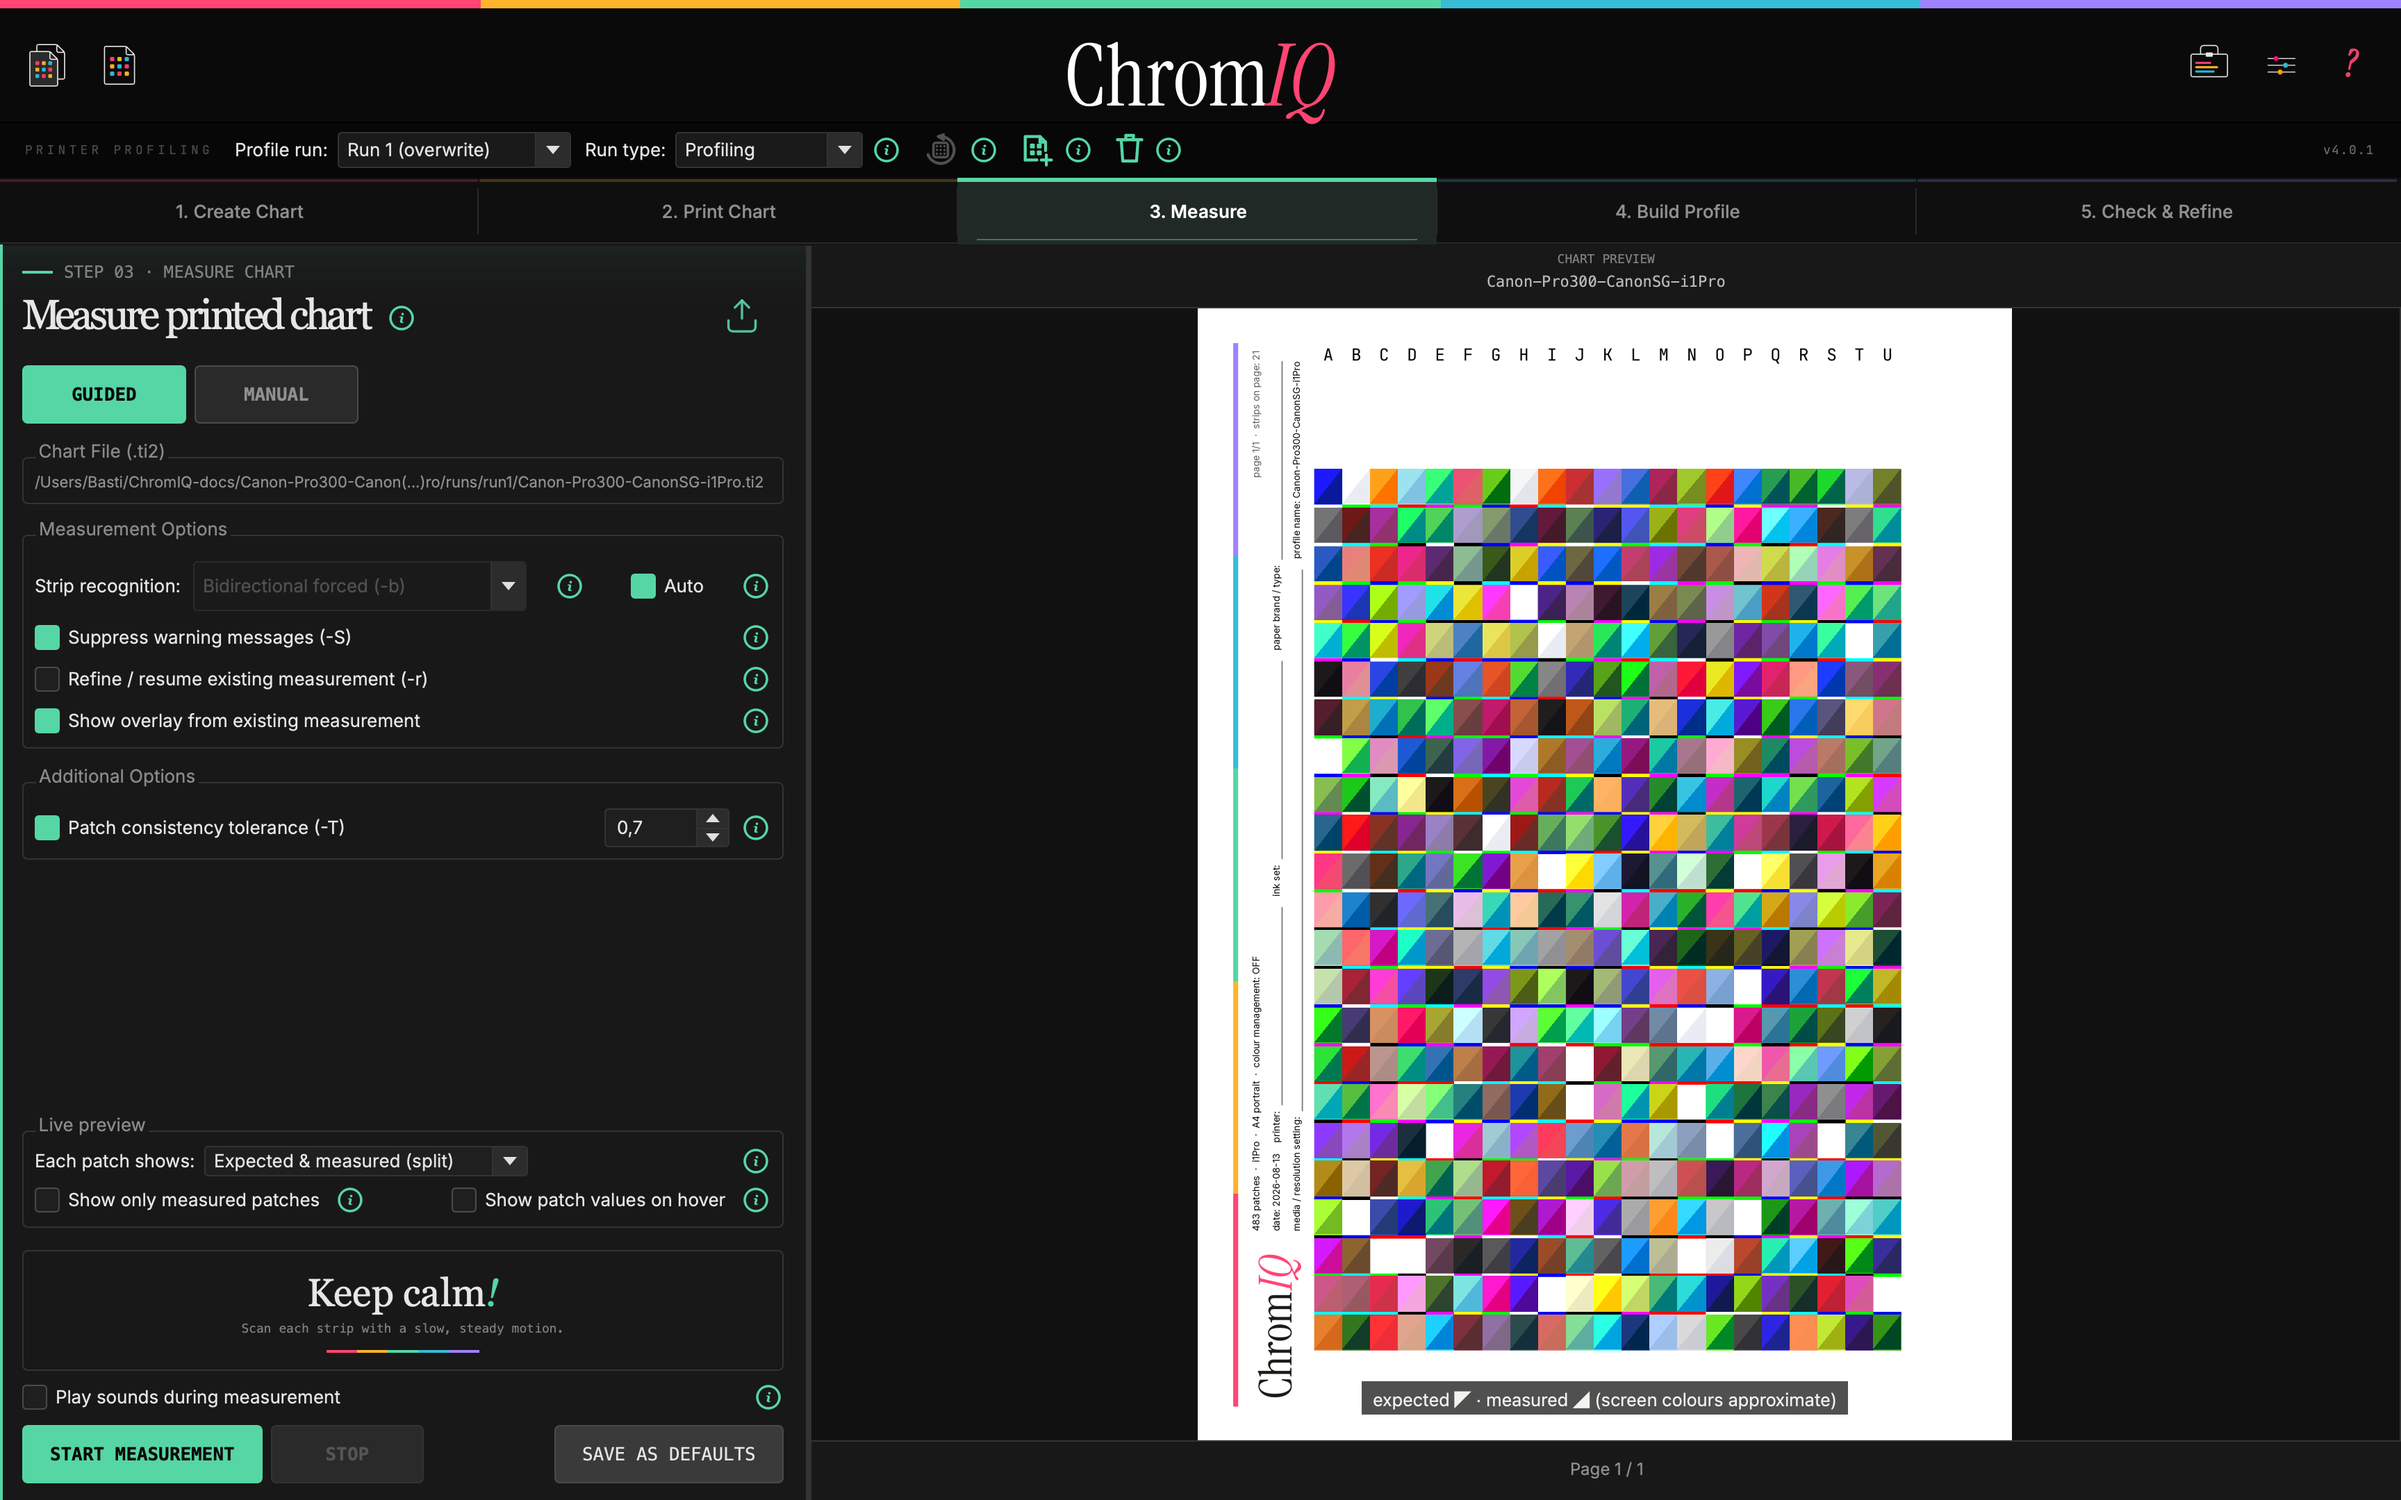
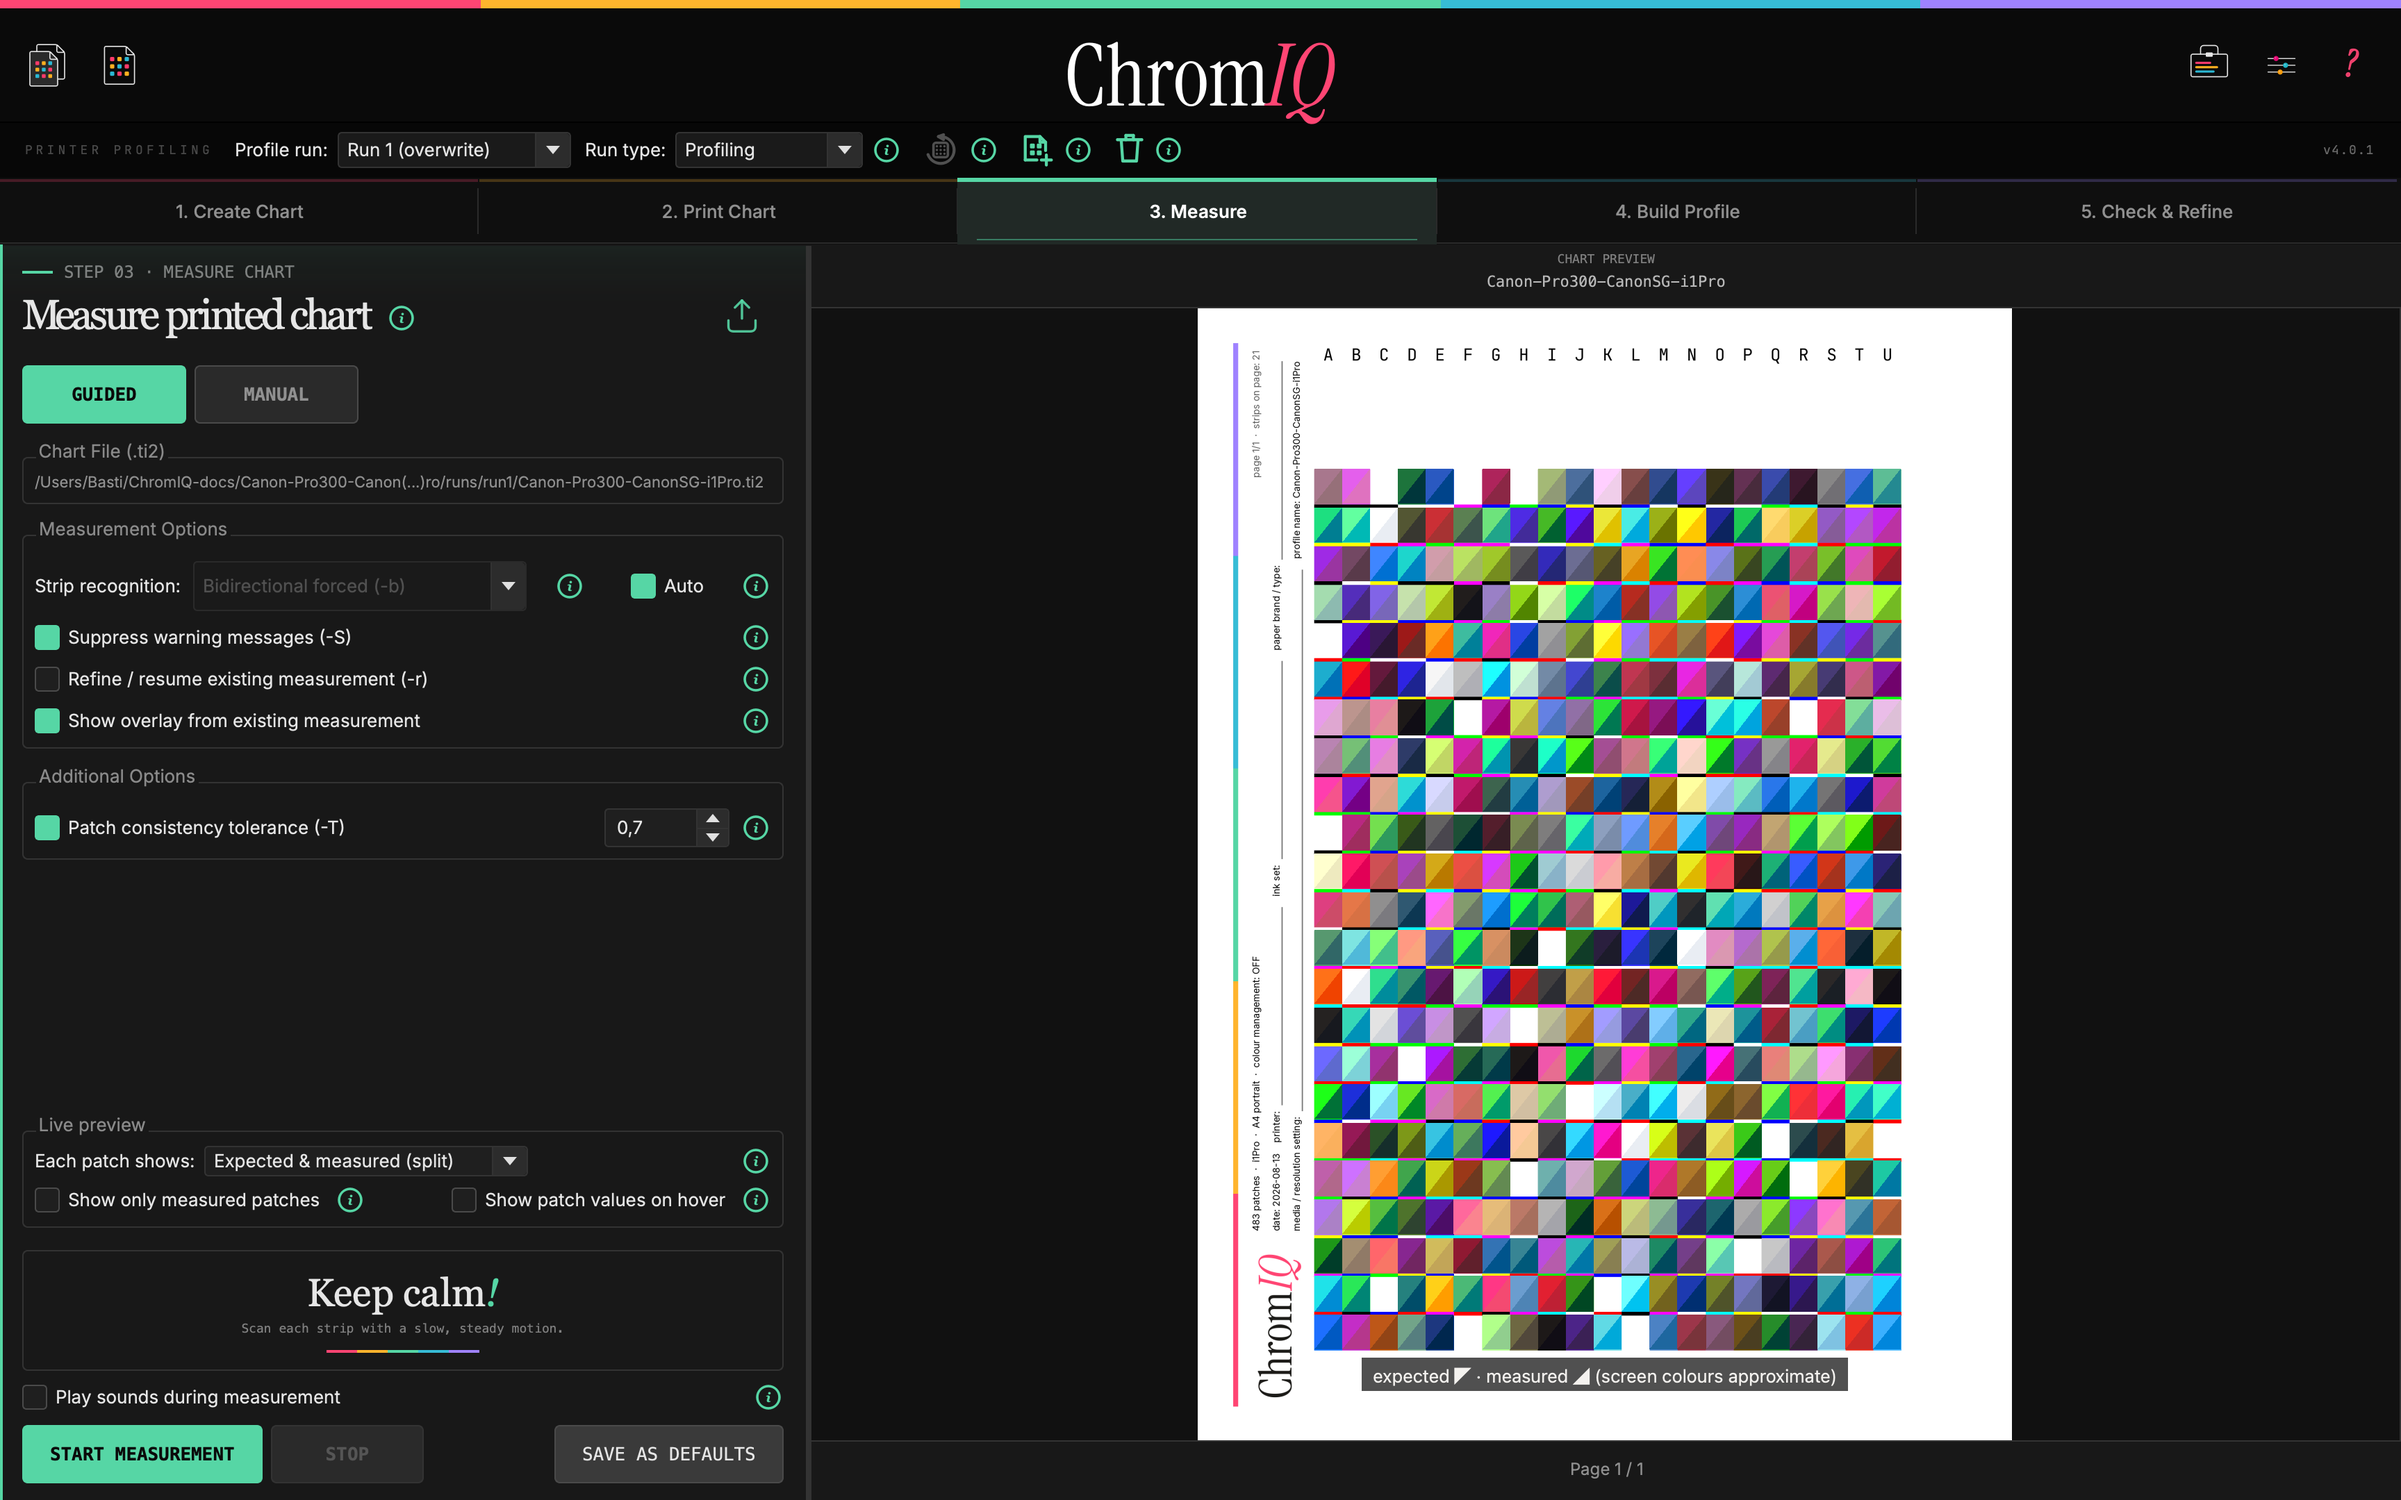
Strip rects never reach past the page, and the demo chart is a real one
Sebastian kept saying the overlay legend sat differently in his app than in
my screenshots, and he was right three times over while I explained it
wrongly. The app's own numbers settled it: for the demo chart it computed
patch_bottom=803.3 against img_b=801.5 — strip rectangles ending 8 px BELOW
the page they belong to. With no sane anchor the legend fell back to the
paper-edge rule, which is the gap he could see.

The cause is the capture script. It rebuilds the demo chart by calling the
layout engine directly, which writes <stem>.strips.json but never merges it
into channels.json — chart_creator's job, bypassed here — and the source
project predates the engine, so its sidecar has no layout at all. The app
then DETECTS strips from the page image, and that detector overshot. His own
charts carry exact geometry (strips end at 3124, patches at 3124), which is
why he never saw it. The script now merges the geometry, so the staged chart
behaves like one a user generated.

The app half is a real robustness hole worth closing anyway: any chart made
before the layout engine, or in another program, is measured with detected
strips, and everything anchored to them inherits an overshoot — the scan
arrow, the measured-patch blanking, the legend. set_stripe_rects now clamps
to the page. And the clamp is applied again from the render, because the
page image is built by a deferred timer: rects arrive BEFORE there is a
[…]

Changed region(s): [[0.5312, 0.3102, 0.8125, 0.9616]]

diff --git a/scripts/capture_screens.py b/scripts/capture_screens.py
@@ -186,6 +186,43 @@ def pump(ms: int) -> None:
 # ---------------------------------------------------------------------------
 # Seeding
 # ---------------------------------------------------------------------------
+def _merge_engine_geometry(stem) -> bool:
+    """Make the rebuilt chart a REAL ChromIQ-engine chart on disk.
+
+    Building through ``le_chart.build_chart`` writes ``<stem>.strips.json``,
+    but the app reads its strip geometry from ``<stem>.channels.json`` — the
+    merge normally done by ``chart_creator``, which this script bypasses. The
+    source project predates the engine, so its sidecar carries no layout at
+    all, and the app fell back to DETECTING strips from the page image. That
+    detector handed back rects reaching past the page (3516 px on a 3508 px
+    page), and anything anchored to them, the overlay legend included, went
+    with it — the gap Sebastian spotted in the screenshot, 2026-08-13.
+
+    Mirrors what chart_creator writes, so the staged chart behaves on screen
+    exactly like one a user generated.
+    """
+    import json
+    strips = Path(str(stem) + ".strips.json")
+    sidecar = Path(str(stem) + ".channels.json")
+    if not strips.is_file():
+        log("  no engine geometry to merge (chart not engine-built?)")
+        return False
+    try:
+        doc = json.loads(sidecar.read_text()) if sidecar.is_file() else {}
+        layout = json.loads(strips.read_text())
+        layout["engine"] = "chromiq"
+        layout["engine_version"] = 1
+        doc["layout"] = layout
+        sidecar.write_text(json.dumps(doc))
+    except Exception as e:      # noqa: BLE001
+        log(f"  could not merge engine geometry: {e}")
+        return False
+    log(f"engine geometry merged into the sidecar "
+        f"({len(layout.get('strips') or [])} strips, "
+        f"{len(layout.get('patches') or [])} patches)")
+    return True
+
+
 def _make_a_matching_measurement(stem) -> bool:
     """Give the rebuilt run chart a measurement that actually fits it.
 
@@ -308,6 +345,7 @@ def stage_the_project(settings) -> bool:
             use_instrument_margins=True, clip_content_mode="notes",
             clip_text="Canon PRO-300  ·  Canon SG  ·  i1Pro")
         log("run chart rebuilt with the layout engine + notes clip border")
+        _merge_engine_geometry(stem)
         _make_a_matching_measurement(stem)
         return True
     except Exception as e:                        # noqa: BLE001
@@ -566,6 +604,32 @@ def scene_list():
             win._tab_chart._manual_paper_pw.set_value("A4")
         except Exception as e:
             log(f"manual instr/paper: {e}")
+        # NO MODALS DURING A CAPTURE. Touching a layout control asks for a
+        # redraw, and this run holds a measurement the redraw would replace, so
+        # the tab says so in a window ("The live preview is not being
+        # re-drawn") — which stops the run until someone clicks OK (Sebastian
+        # hit it, 2026-08-13). The tab already says that note only once per
+        # switch-on and logs it thereafter; pre-setting its flag takes the
+        # quiet path instead of patching exec.
+        win._tab_chart._said_auto_update_paused = True
+        # …AND THE ENGINE PANEL, WHICH IS WHAT ACTUALLY LAYS THE SHEET OUT.
+        # With the ChromIQ layout engine on (the default since 4.0.0) the
+        # printtarg -i/-p widgets above are not the source: the panel is. Set
+        # only those two and the auto-update redraw uses whatever instrument
+        # the panel happened to hold, which put a ColorMunki sheet in the
+        # i1Pro screenshot (Sebastian spotted it, 2026-08-13). Setting both
+        # keeps the shot the same on any machine, whatever a project or a
+        # preference carries.
+        try:
+            p = win._tab_chart._manual_layout_panel
+            ii = p.instr.findData("i1")
+            if ii >= 0:
+                p.instr.setCurrentIndex(ii)          # rebuilds the paper list
+            pi = p.paper.findData("A4")
+            if pi >= 0:
+                p.paper.setCurrentIndex(pi)
+        except Exception as e:
+            log(f"engine panel instr/paper: {e}")
         _keep_the_runs_own_chart(win)
         show_tab(win, "chart")
         # SETTING INSTRUMENT/PAPER RE-LAYS THE CHART OUT, AND THE SHOT MUST

diff --git a/tests/test_measure_overlay_legend.py b/tests/test_measure_overlay_legend.py
@@ -12,7 +12,17 @@ from __future__ import annotations
 import inspect
 import re
 
+import pytest
+
 from ui.tiff_preview import TiffPreview
+
+
+@pytest.fixture(scope="module")
+def qapp_for_preview():
+    import os
+    os.environ.setdefault("QT_QPA_PLATFORM", "offscreen")
+    from PyQt6.QtWidgets import QApplication
+    return QApplication.instance() or QApplication([])
 
 
 def _legend_block() -> str:
@@ -38,3 +48,59 @@ def test_the_bottom_clamp_comes_last():
     prefer = block.index("patch_bottom + 2")
     clamp = block.index("img_b - th - 4", block.index("patch_bottom + 2"))
     assert clamp > prefer, "the paper clamp must be the last word on cy"
+
+
+# ---- 2026-08-13: strip rects must never reach past the page --------------
+def test_detected_strip_rects_are_clamped_to_the_page(qapp_for_preview):
+    """A chart with no engine geometry has its strips DETECTED from the page
+    image, and that detector returned a rect ending at 3516 px on a 3508 px
+    page. Everything anchored to a strip inherits it: the scan arrow, the
+    measured-patch blanking, and the overlay legend, which is where Sebastian
+    saw it. The clamp lives in the one setter every source goes through."""
+    from PyQt6.QtCore import QRect
+    from PyQt6.QtGui import QPixmap
+
+    pv = TiffPreview()
+    pv._pixmap = QPixmap(2480, 3508)
+    pv.set_stripe_rects([QRect(300, 450, 90, 3066),      # bottom 3516: past it
+                         QRect(400, 450, 90, 2800)])     # bottom 3250: fine
+    tops = [r.y() + r.height() for r in pv._stripe_rects]
+    assert max(tops) <= 3508, f"a strip still reaches past the page: {tops}"
+    assert tops[1] == 3250, "a rect that already fits must not be moved"
+
+
+def test_clamping_survives_a_missing_page(qapp_for_preview):
+    """No page loaded yet is normal during setup — the setter must not raise
+    or discard the rects, or a chart would arrive with no strips at all."""
+    from PyQt6.QtCore import QRect
+    pv = TiffPreview()
+    pv._pixmap = None
+    pv.set_stripe_rects([QRect(0, 0, 10, 10)])
+    assert len(pv._stripe_rects) == 1
+
+
+def test_rects_that_arrive_before_the_page_are_clamped_too(qapp_for_preview):
+    """The page image is built by a deferred timer, so strip rects normally
+    arrive BEFORE there is a pixmap to measure against. Clamping only in the
+    setter therefore did nothing at all in the real call order — found by
+    testing the fix rather than trusting it (2026-08-13)."""
+    from PyQt6.QtCore import QRect
+    from PyQt6.QtGui import QPixmap
+
+    pv = TiffPreview()
+    pv._pixmap = None                       # page not loaded yet
+    pv.set_stripe_rects([QRect(300, 450, 90, 4000)])     # bottom 4450
+    assert pv._stripe_rects[0].height() == 4000, "nothing to clamp against yet"
+
+    pv._pixmap = QPixmap(2480, 3508)        # …the page arrives
+    pv._clamp_stripe_rects_to_page()
+    r = pv._stripe_rects[0]
+    assert r.y() + r.height() <= 3508, "the rect must be trimmed once the page is known"
+
+
+def test_the_render_applies_the_clamp():
+    """Pin the wiring: the clamp has to run where the pixmap is set, not only
+    in the setter, or the deferred case above silently returns."""
+    import inspect
+    src = inspect.getsource(TiffPreview._update_display)
+    assert "_clamp_stripe_rects_to_page" in src

diff --git a/ui/tiff_preview.py b/ui/tiff_preview.py
@@ -1316,9 +1316,43 @@ class TiffPreview(QWidget):
         top (the anchor is a label-band bottom — printtarg charts and engine
         charts with strip labels). "tip" floats the arrow ABOVE the rect top
         with its tip a tiny gap over the patches — engine charts without
-        strip labels, where there is no label band to hang from."""
+        strip labels, where there is no label band to hang from.
+
+        RECTS ARE CLAMPED TO THE PAGE. A chart carrying no engine geometry
+        (one made before the layout engine, or in another program) has its
+        strips DETECTED from the page image instead, and that detector can
+        return a rect reaching past the paper: measured 3516 px on a 3508 px
+        page (2026-08-13). Everything anchored to a strip inherits the error —
+        the scan arrow, the measured-patch blanking, and the overlay legend,
+        which is where it surfaced. Clamping here covers all of them, because
+        this is the one door every source comes through.
+        """
         self._stripe_rects = rects
         self._stripe_arrow_mode = arrow_mode
+        self._clamp_stripe_rects_to_page()
+
+    def _clamp_stripe_rects_to_page(self) -> None:
+        """Trim the strip rects to the page, whenever the page is known.
+
+        Called from :meth:`set_stripe_rects` AND from the render, because the
+        page image is built by a deferred timer: rects usually arrive BEFORE
+        there is a pixmap to measure against, so clamping only in the setter
+        silently did nothing (caught while testing the fix itself, 2026-08-13).
+        Idempotent, so running it on every render costs nothing once the rects
+        already fit.
+        """
+        page = self._pixmap
+        if page is None or not self._stripe_rects:
+            return
+        pw, ph = page.width(), page.height()
+        fixed = []
+        for r in self._stripe_rects:
+            x = max(0, min(r.x(), pw))
+            y = max(0, min(r.y(), ph))
+            fixed.append(QRect(x, y,
+                               max(1, min(r.width(), pw - x)),
+                               max(1, min(r.height(), ph - y))))
+        self._stripe_rects = fixed
 
     def show_page(self, index: int) -> None:
         """Switch to page by index and repaint."""
@@ -1698,6 +1732,10 @@ class TiffPreview(QWidget):
             log.warning("Preview render error: %s", exc)
             self._img_label.setText(tr("Preview error:\n{exc}").format(exc=exc))
             return
+
+        # The page is known now, so any strip rects that arrived before it can
+        # finally be measured against it.
+        self._clamp_stripe_rects_to_page()
 
         self._update_render_badge()
         self._repaint_label()
